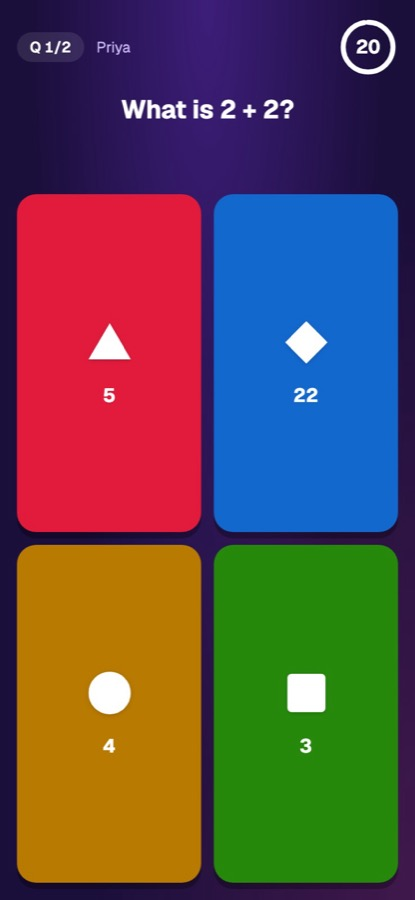
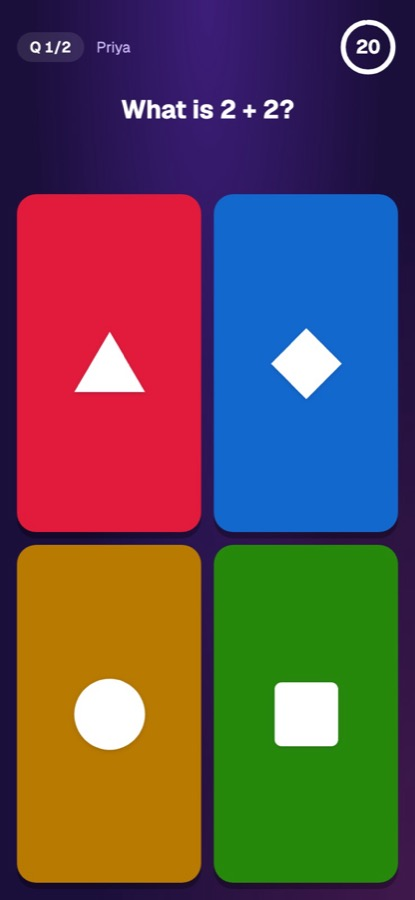
Mirror the Display on players' phones; fix phone overflow and late-joiner promotion (Decision #62)
- Play tiles are shape-only (answer text stays as screen-reader text),
  and all screens share one layout rule: 2 options stacked top/bottom,
  3-4 in a 2x2 grid, so a phone is a spatial mirror of the projector.
- Portrait audit (320/375/390px, realistic + max-length content) fixes:
  Final Results podium overflowed sideways on every phone width; podium
  put the winner on the right when 2nd was tied; result "Correct answer"
  hint overflowed on long words; lobby name was ellipsised.
- Late joiners (spectators) can now request to play from the question
  screen; previously the button was only on a lobby they never see.
- README screenshots refreshed (adds Display reveal, phone play/results).

diff --git a/frontend/src/pages/PlayPage.tsx b/frontend/src/pages/PlayPage.tsx
@@ -79,6 +79,7 @@ export function PlayPage() {
   const [phase, setPhase] = useState<Phase>('connecting')
   const [role, setRole] = useState<'PLAYER' | 'SPECTATOR' | null>(null)
   const [promotionRequested, setPromotionRequested] = useState(false)
+  const [promotionDenied, setPromotionDenied] = useState(false)
   const [question, setQuestion] = useState<QuestionBroadcast | null>(null)
   const [deadline, setDeadline] = useState<number | null>(null)
   const [displayName] = useState(() => localStorage.getItem('pulz:displayName'))
@@ -163,6 +164,7 @@ export function PlayPage() {
     }
     function onPromotionResult(payload: PromotionResult) {
       setPromotionRequested(false)
+      setPromotionDenied(!payload.approved)
       if (payload.approved) setRole('PLAYER')
     }
     function onGameEnded(payload: GameEnded) {
@@ -203,6 +205,7 @@ export function PlayPage() {
 
   function handleRequestPromotion() {
     setPromotionRequested(true)
+    setPromotionDenied(false)
     socket.emit('promotion:request')
   }
 
@@ -238,7 +241,9 @@ export function PlayPage() {
         <ShapeParade />
         <h1 className="text-4xl font-black tracking-tight">You're in!</h1>
         {displayName ? (
-          <p className="max-w-full truncate rounded-full bg-white/10 px-5 py-2 text-xl font-semibold">{displayName}</p>
+          <p className="max-w-full rounded-3xl bg-white/10 px-5 py-2 text-xl font-semibold [overflow-wrap:anywhere]">
+            {displayName}
+          </p>
         ) : null}
         <p className="text-stage-muted">Waiting for the host to start the game...</p>
         {role === 'SPECTATOR' ? (
@@ -293,9 +298,9 @@ export function PlayPage() {
           Rank {result.myRank} of {result.totalPlayers}
         </p>
         {!result.isCorrect && correctOption ? (
-          <p className="flex items-center gap-2 rounded-xl bg-black/20 px-4 py-2 text-base">
+          <p className="flex max-w-full items-center gap-2 rounded-xl bg-black/20 px-4 py-2 text-base">
             <AnswerShape shape={correctOption.shape} className="size-5 shrink-0" />
-            <span>
+            <span className="min-w-0 [overflow-wrap:anywhere]">
               Correct answer: <span className="font-semibold">{correctOption.label}</span>
             </span>
           </p>
@@ -332,7 +337,23 @@ export function PlayPage() {
 
       <div className="flex min-h-14 items-center justify-center px-4 pt-1 pb-4 text-center text-sm" aria-live="polite">
         {role === 'SPECTATOR' ? (
-          <span className="text-stage-muted">Spectating — you can't answer this round.</span>
+          // Joined after the game started (DESIGN.md §2): the host has to let
+          // them in, from the next answer on — no retroactive points
+          // (Decision #13). This is the only screen a late joiner ever sees,
+          // so the request has to live here, not just in the lobby.
+          <span className="flex flex-wrap items-center justify-center gap-x-3 gap-y-2">
+            <span className="text-stage-muted">
+              {promotionDenied ? 'The host said not yet — you can ask again.' : "You joined mid-game, so you're watching."}
+            </span>
+            <Button
+              size="sm"
+              className="bg-white text-stage hover:bg-white/90"
+              onClick={handleRequestPromotion}
+              disabled={promotionRequested}
+            >
+              {promotionRequested ? 'Request sent' : 'Request to play'}
+            </Button>
+          </span>
         ) : answerError && !result ? (
           <span className="rounded-full bg-stage-incorrect px-4 py-1.5 font-medium">{answerError}</span>
         ) : phase === 'locked' ? (
@@ -351,7 +372,7 @@ export function PlayPage() {
         <div className="flex flex-1 flex-col px-4 pb-4 sm:mx-auto sm:w-full sm:max-w-3xl">
           <AnswerGrid
             className="flex-1 auto-rows-fr"
-            stacked
+            shapeOnly
             options={toAnswerOptions(question.options)}
             onSelect={handleSelect}
             selectedOptionId={selectedOptionId}

diff --git a/frontend/src/components/AnswerGrid.tsx b/frontend/src/components/AnswerGrid.tsx
@@ -21,9 +21,10 @@ type AnswerGridProps = {
   reveal?: { correctOptionId: string; tally?: Record<string, number> }
   /** `large` for the projector-facing Display. */
   size?: 'default' | 'large'
-  /** Shape above a centered label — for tall tiles (Play fills the phone
-   * screen with them), where a left-aligned row floats in empty space. */
-  stacked?: boolean
+  /** Big centered shape only; the label becomes screen-reader text. For
+   * the player's phone, where the room reads the answers off the Display
+   * and just needs to hit the matching shape fast (Decision #62). */
+  shapeOnly?: boolean
   className?: string
   /** Extra classes for every tile (e.g. viewport-scaled sizing on the
    * projector), so callers don't have to reach into the grid's DOM. */
@@ -35,6 +36,11 @@ type AnswerGridProps = {
  * Display and Host show it read-only. Tile colors are the fixed Kahoot-style
  * slot palette (answerStyles.ts), independent of the app theme, so label
  * text is always white.
+ *
+ * Layout is decided by option count alone — 2 options stack top/bottom,
+ * 3-4 fill a 2x2 grid in slot order — and is the same on Display, Host and
+ * Play, so a player's phone is a spatial mirror of the projector: the tile
+ * top-left on the big screen is top-left in their hand.
  */
 export function AnswerGrid({
   options,
@@ -43,14 +49,21 @@ export function AnswerGrid({
   selectedOptionId,
   reveal,
   size = 'default',
-  stacked = false,
+  shapeOnly = false,
   className,
   tileClassName: extraTileClassName,
 }: AnswerGridProps) {
   const large = size === 'large'
 
   return (
-    <div className={cn('grid grid-cols-2', large ? 'gap-5' : 'gap-3 sm:gap-4', className)}>
+    <div
+      className={cn(
+        'grid',
+        options.length <= 2 ? 'grid-cols-1' : 'grid-cols-2',
+        large ? 'gap-5' : 'gap-3 sm:gap-4',
+        className,
+      )}
+    >
       {options.map((option) => {
         const isCorrect = reveal?.correctOptionId === option.id
         const isSelected = selectedOptionId === option.id
@@ -60,7 +73,7 @@ export function AnswerGrid({
 
         const tileClassName = cn(
           'relative flex items-center rounded-2xl font-bold text-white',
-          stacked ? 'flex-col justify-center text-center' : 'text-left',
+          shapeOnly ? 'justify-center' : 'text-left',
           'shadow-[0_6px_0_rgb(0_0_0/0.28)] transition-[transform,opacity,filter,box-shadow] duration-200',
           large ? 'min-h-32 gap-5 px-7 text-3xl' : 'min-h-24 gap-3 px-4 text-lg sm:min-h-28 sm:text-xl',
           onSelect &&
@@ -79,14 +92,17 @@ export function AnswerGrid({
           <>
             <AnswerShape
               shape={option.shape}
-              className={cn('shrink-0 drop-shadow-sm', large || stacked ? 'size-12' : 'size-7 sm:size-9')}
+              className={cn(
+                'shrink-0 drop-shadow-sm',
+                shapeOnly ? 'size-20 sm:size-24' : large ? 'size-12' : 'size-7 sm:size-9',
+              )}
             />
-            <span className={cn('min-w-0 [overflow-wrap:anywhere]', !stacked && 'flex-1')}>{option.label}</span>
+            <span className={shapeOnly ? 'sr-only' : 'min-w-0 flex-1 [overflow-wrap:anywhere]'}>{option.label}</span>
             {isCorrect ? (
               <Check
                 aria-hidden="true"
                 strokeWidth={3.5}
-                className={cn(large ? 'size-10' : 'size-7', stacked && 'absolute top-3 right-3')}
+                className={cn(large ? 'size-10' : 'size-7', shapeOnly && 'absolute top-3 right-3')}
               />
             ) : null}
             {count !== null ? (

diff --git a/frontend/src/components/Podium.tsx b/frontend/src/components/Podium.tsx
@@ -8,11 +8,16 @@ type PodiumProps = {
   entries: PodiumEntry[]
 }
 
-const MEDAL_BY_RANK: Record<number, { label: string; className: string }> = {
-  1: { label: '🥇', className: 'order-2 h-32 bg-amber-400/90' },
-  2: { label: '🥈', className: 'order-1 h-24 bg-slate-300/90' },
-  3: { label: '🥉', className: 'order-3 h-16 bg-orange-400/80' },
+const MEDAL_BY_RANK: Record<number, { label: string; blockClassName: string }> = {
+  1: { label: '🥇', blockClassName: 'h-28 bg-amber-400/90' },
+  2: { label: '🥈', blockClassName: 'h-20 bg-slate-300/90' },
+  3: { label: '🥉', blockClassName: 'h-14 bg-orange-400/80' },
 }
+
+// Visual slot by position in the ranked list, not by rank: the leader
+// stands in the middle, the next on the left, the next on the right — so
+// ties (e.g. two players sharing 2nd) still keep the winner centred.
+const SLOT_ORDER = ['order-2', 'order-1', 'order-3']
 
 /**
  * Shared podium component (ARCHITECTURE.md §5, PRD §4.4) — used by the
@@ -20,25 +25,31 @@ const MEDAL_BY_RANK: Record<number, { label: string; className: string }> = {
  * (Decision #7's tie-breaking note), so this renders whatever entries
  * (up to 3 "slots") the caller passes rather than assuming exactly one
  * per rank.
+ *
+ * Name and score sit above each medal block, in the theme's own text
+ * colors, and wrap rather than truncate — this is the only place the top
+ * three are listed (the table below starts at 4th), and a fixed-size block
+ * can't hold a 24-character name on a phone.
  */
 export function Podium({ entries }: PodiumProps) {
+  const ranked = [...entries].sort((a, b) => a.rank - b.rank)
+
   return (
-    <div className="flex items-end justify-center gap-4">
-      {entries.map((entry) => {
-        const medal = MEDAL_BY_RANK[entry.rank] ?? { label: `#${entry.rank}`, className: 'order-4 h-12 bg-muted' }
+    <div className="flex items-end justify-center gap-2 sm:gap-4">
+      {ranked.map((entry, index) => {
+        const medal = MEDAL_BY_RANK[entry.rank] ?? { label: `#${entry.rank}`, blockClassName: 'h-10 bg-muted' }
         return (
           <div
             key={`${entry.rank}-${entry.name}`}
-            className={`flex w-28 flex-col items-center justify-end rounded-t-lg pb-2 text-center shadow-sm ${medal.className}`}
+            className={`flex max-w-32 min-w-0 flex-1 flex-col items-center gap-1 text-center ${SLOT_ORDER[index] ?? 'order-4'}`}
           >
-            <div className="text-2xl">{medal.label}</div>
-            {/* Explicit dark text: these medal blocks are fixed light
-                colors regardless of app theme (like AnswerGrid's option
-                buttons), so text must not inherit the theme-driven
-                foreground color — in dark mode that's near-white and
-                unreadable against amber/slate/orange. */}
-            <div className="mt-1 truncate px-1 font-semibold text-black/80">{entry.name}</div>
-            <div className="text-sm text-black/70">{entry.score} pts</div>
+            <div className="w-full leading-tight font-semibold [overflow-wrap:anywhere]">{entry.name}</div>
+            <div className="text-sm text-muted-foreground">{entry.score} pts</div>
+            <div
+              className={`mt-1 flex w-full justify-center rounded-t-lg pt-2 text-2xl shadow-sm ${medal.blockClassName}`}
+            >
+              {medal.label}
+            </div>
           </div>
         )
       })}

diff --git a/frontend/src/pages/PlayPage.test.tsx b/frontend/src/pages/PlayPage.test.tsx
@@ -112,6 +112,52 @@ describe('PlayPage', () => {
     expect(screen.getByText('4')).toBeInTheDocument() // "Correct answer: 4"
   })
 
+  it('lets a mid-game joiner ask to play, and answer once the host approves', () => {
+    renderPlayPage()
+    // Joined after the game started: resumed straight into the active question as a spectator.
+    serverEmits('join:accepted', {
+      participantId: 'p9',
+      participantToken: 'participant-token',
+      role: 'SPECTATOR',
+      state: { status: 'IN_PROGRESS', question: { ...QUESTION, phase: 'ACTIVE' }, answeredOptionId: null },
+    })
+    expect(screen.getByRole('button', { name: '4' })).toBeDisabled()
+
+    fireEvent.click(screen.getByRole('button', { name: 'Request to play' }))
+    expect(fakeSocket.emit).toHaveBeenCalledWith('promotion:request')
+    expect(screen.getByRole('button', { name: 'Request sent' })).toBeDisabled()
+
+    serverEmits('promotion:result', { approved: true })
+    expect(screen.queryByRole('button', { name: /Request/ })).not.toBeInTheDocument()
+    fireEvent.click(screen.getByRole('button', { name: '4' }))
+    expect(fakeSocket.emit).toHaveBeenCalledWith('answer:submit', { questionId: 'q1', selectedOptionId: 'o2' })
+  })
+
+  it('tells a spectator when the host declines, and lets them ask again', () => {
+    renderPlayPage()
+    serverEmits('join:accepted', {
+      participantId: 'p9',
+      participantToken: 'participant-token',
+      role: 'SPECTATOR',
+      state: { status: 'IN_PROGRESS', question: { ...QUESTION, phase: 'ACTIVE' }, answeredOptionId: null },
+    })
+    fireEvent.click(screen.getByRole('button', { name: 'Request to play' }))
+    serverEmits('promotion:result', { approved: false })
+
+    expect(screen.getByText(/host said not yet/)).toBeInTheDocument()
+    expect(screen.getByRole('button', { name: 'Request to play' })).toBeEnabled()
+  })
+
+  it('shows answer tiles as shapes only, keeping each option as its accessible name', () => {
+    renderPlayPage()
+    serverEmits('join:accepted', { participantId: 'p1', participantToken: 'participant-token', role: 'PLAYER' })
+    serverEmits('question:broadcast', QUESTION)
+
+    const tile = screen.getByRole('button', { name: '4' })
+    expect(tile.querySelector('svg')).not.toBeNull()
+    expect(screen.getByText('4')).toHaveClass('sr-only')
+  })
+
   it('shows Not quite. (not Time\'s up) for a wrong answer', () => {
     renderPlayPage()
     serverEmits('join:accepted', { participantId: 'p1', participantToken: 'participant-token', role: 'PLAYER' })

diff --git a/frontend/src/components/Podium.test.tsx b/frontend/src/components/Podium.test.tsx
@@ -1,0 +1,34 @@
+import { render, screen } from '@testing-library/react'
+import { describe, expect, it } from 'vitest'
+import { Podium } from './Podium'
+
+function slotOf(name: string): string | undefined {
+  // Each entry's column carries its visual slot as a flex `order-*` class.
+  return screen.getByText(name).parentElement?.className.match(/order-\d/)?.[0]
+}
+
+describe('Podium', () => {
+  it('keeps the winner in the middle even when 2nd place is tied', () => {
+    render(
+      <Podium
+        entries={[
+          { rank: 2, name: 'Bea', score: 10 },
+          { rank: 1, name: 'Ava', score: 50 },
+          { rank: 2, name: 'Cal', score: 10 },
+        ]}
+      />,
+    )
+
+    expect(slotOf('Ava')).toBe('order-2') // centre
+    expect(slotOf('Bea')).toBe('order-1') // left
+    expect(slotOf('Cal')).toBe('order-3') // right
+  })
+
+  it('shows full names and scores, never truncated', () => {
+    render(<Podium entries={[{ rank: 1, name: 'Maximilian-Alexandrovich', score: 950 }]} />)
+
+    const name = screen.getByText('Maximilian-Alexandrovich')
+    expect(name.className).not.toMatch(/truncate/)
+    expect(screen.getByText('950 pts')).toBeInTheDocument()
+  })
+})

diff --git a/docs/DECISIONS.md b/docs/DECISIONS.md
@@ -71,6 +71,7 @@ tell a "settled trade-off" apart from an "open question" (see
 | 59 | E2E flakiness root-caused and fixed (2026-09-27). **Cause:** the socket connection limiter (ARCHITECTURE.md §11 row 3, 20 new connections/60s) was keyed on **raw IP**, and every Playwright browser context shares one IP (the Docker gateway) — the suite deterministically hit connection #21 within a minute, and the rejected socket (`connection:error` + forced disconnect, which the client doesn't surface) left whichever page was connecting stuck forever. Proven with temporary server logging: runs passed exactly until the 21st connection, which logged as rate-limited. The answer-vs-lock race theory from the handoff was **refuted** (every logged answer reached the server ~500ms before lock; `answer:ack` also already existed per DESIGN.md §3). **Fixes:** (1) the connect *and* join limiters now key on `IP + client id` (`compositeRateKey`, `backend/src/domain/rateLimiter.ts`) — the client sends a random per-device `clientId` in the Socket.IO handshake `auth` (`frontend/src/lib/socket.ts`); a missing/malformed id falls back to the bare IP. This is what §11 always specified; raw-IP also meant a real classroom behind one NAT'd IP would be cut off after ~10 players/minute. (2) **Production bug found along the way:** `useGameSocket` only authenticated on a `connect` event, but `JoinPage` hands `PlayPage` an *already-connected* socket, so in a prod build (no StrictMode) no `join:request` was ever sent and players could never answer — dev only worked because StrictMode's effect double-run disconnected and reconnected the socket. The hook now runs `onConnect` immediately if already connected (once per `socket.id`) and defers its unmount disconnect so StrictMode no longer churns a new server connection. (3) The disconnect handler no longer marks a participant disconnected if they've already rebound to a newer socket (latent race, not observed but real). (4) `PlayPage` now surfaces `answer:ack`/`answer:error` ("Answer received — waiting for the host..."), and the E2E specs wait for that instead of fixed `waitForTimeout(500)` sleeps. Verified: 12 consecutive full-suite runs green (36/36), plus the original reproduction (`--repeat-each=9`, previously failing from run 6) 9/9, plus `full-game-flow`/`reconnect` against a production build. | Decision #21/ARCHITECTURE.md §11 asked for composite keys from the start; the raw-IP shortcut was never an intentional trade-off. Fixing the test by raising the limit in dev would have hidden a real classroom-scale product bug; waiting on the server's ack is deterministic where a sleep only made the failure rarer. The follow-ups this left open (client hanging on `connection:error`, no integration test for the stale-disconnect guard, E2E runs tripping the register limit) are closed by Decision #60. | `backend/src/domain/rateLimiter.ts`, `backend/src/sockets/index.ts`, `backend/src/sockets/session.socket.ts`, `frontend/src/lib/socket.ts`, `frontend/src/hooks/useGameSocket.ts`, `frontend/src/pages/PlayPage.tsx`, `frontend/e2e/` |
 | 60 | Decision #59's follow-ups closed (2026-09-27). (1) **Refused connections are surfaced, not silent:** `useGameSocket` now returns `{ socket, connectionError }`, set from the server's `connection:error` or any `io server disconnect` (which Socket.IO never auto-reconnects from); Host/Display/Play render the message plus "reload to try again" instead of an indefinite "Connecting…", and JoinPage's submit flow handles the same events so the form doesn't stay stuck submitting. Verified against the live server that a client receives `connect` → `connection:error` → `disconnect(io server disconnect)` in that order at the cap. No automatic client retry — a reload is enough for MVP and avoids hammering a limiter that just refused us. (2) **Real-Socket.IO backend integration test** (`backend/src/sockets/session.socket.test.ts`, `socket.io-client` added as a backend devDependency) for Decision #59's stale-disconnect guard: rejoin on socket B, then A's late disconnect must leave the participant connected, and B must still get its `answer:result` at lock; confirmed to fail with the guard removed. (3) **`POST /auth/register`'s limit is env-overridable** (`REGISTER_RATE_LIMIT_PER_HOUR`, default still 10/hour per Decision #38) and raised to 1000 only in the dev-only `docker-compose.yml`, so repeated E2E runs (3 registrations each) no longer need `docker compose restart backend`. | (3) keeps production behaviour identical while removing a purely local-dev friction; an E2E-only shared Creator token was considered but would have stopped exercising the real anonymous registration path the Creator flow depends on. Verified: 6 back-to-back full E2E runs with no restarts (18 registrations) green, zero 429s. | `frontend/src/hooks/useGameSocket.ts`, `frontend/src/components/ConnectionErrorMessage.tsx`, `frontend/src/pages/{Host,Display,Play,Join}Page.tsx`, `backend/src/sockets/session.socket.test.ts`, `backend/src/config/env.ts`, `backend/src/routes/auth.route.ts`, `docker-compose.yml`, `backend/.env.example` |
 | 61 | Gameplay screens (Host `/host`, Display `/display`, Play `/play`) redesigned in a **"bold game-show"** direction (owner's choice over a calmer, Creator-flow-consistent look), on the existing Tailwind + shadcn stack with no new dependencies. **Shared pieces:** a fixed, theme-independent violet game *stage* (`--stage*` tokens in `index.css`, `GameStage`) for Play and Display; `AnswerGrid` now actually renders each slot's shape (`AnswerShape` — previously defined but never drawn) and supports selected / reveal-with-tally / stacked / per-tile sizing states; a `Countdown` ring (the server already sent `serverStartTime` + `timeLimitSeconds`, but no screen showed a timer) that becomes a solid red ticking disc for the final 5s. **Theme:** Decision #55 holds — no toggle on gameplay screens; Display and Play are always the stage, Host stays theme-aware and now *applies* the saved/system theme via `useTheme()`. **Accessibility:** the gold answer tile darkened `#d89e00` → `#b87a00` (white label 2.4:1 → 3.6:1, passing WCAG large-text); correct-green is `#15803d` (5.0:1 under the result screen's small text); receded tiles darken + desaturate rather than fade, since faded tiles went pastel and illegible on the light-theme Host. **Behaviour changes (display-only, no protocol change beyond one payload):** Display now shows the reveal (correct answer, per-option tallies, "N of M got it right") *together with* a top-5 leaderboard instead of jumping straight to a full-screen leaderboard — `lockQuestion` emits reveal + leaderboard in one step (Decision #33), so the room previously never saw which answer was right; its badge says "Time's up" only when the timer actually expired, "Answers locked" when the host locked early. Display's lobby shows the join code + join URL + live player chips, for which `display:auth_ok` now also carries `joinCode` and the current `participants` (the join code is meant to be public, and Display is the screen that shows it). Play's result screen distinguishes Correct / Not quite / Time's up and shows the correct answer on a miss. Host keeps the previous standings visible while the next question runs (previously cleared on every broadcast). **Bug fixed along the way:** pasting a host token on the Host page's fallback screen never sent `host:auth` (the socket was already connected, so no `connect` event fired) — the Connect handler now authenticates directly. | The gameplay screens were the least-polished part of the app (plain lists, no timer, no shapes) despite being what players and the room actually look at. Countdown deadlines anchor on the local receive time for live broadcasts to sidestep client/server clock skew (`lib/questionTimer.ts`); purely cosmetic, scoring and locking stay server-authoritative. All copy/roles the unit and E2E tests rely on were preserved. Built by three parallel agents (Host, Display, Play) on a shared foundation, with a Playwright screenshot harness driving a real 3-player game for visual review. Verified: 28 frontend + 68 backend unit tests, 5 consecutive full E2E runs green. | `frontend/src/components/{AnswerGrid,AnswerShape,Countdown,GameStage}.tsx`, `frontend/src/components/answerStyles.ts`, `frontend/src/lib/questionTimer.ts`, `frontend/src/index.css`, `frontend/src/pages/{Host,Display,Play}Page.tsx`, `backend/src/sockets/session.socket.ts` |
+| 62 | Player phones show **shape-only answer tiles laid out as a spatial mirror of the Display** (owner's request): the answer text lives only on the Display (still in each tile as screen-reader text, so it stays the accessible name), and every screen uses the same count-based layout — 2 options stacked top/bottom, 3-4 in a 2x2 grid in slot order — so the tile top-left on the projector is top-left in the player's hand. Found by a portrait-phone audit (320/375/390px × realistic and max-length content: 500-char question, 200-char options, 24-char names), and fixed: the **Final Results podium overflowed sideways on every phone width** even with ordinary names (fixed-width blocks + names inside fixed-height medal blocks) — names/scores now sit above flexible blocks and wrap; the **podium put the winner on the right when 2nd place was tied** (slots were by rank, not by position) — the leader is now always centred; the Play result screen's "Correct answer" hint overflowed on long unbroken words; the lobby cut the player's own name with an ellipsis. Also fixed: a late joiner (spectator) **could never request to play** — the button only rendered on the lobby screen, which someone joining mid-game never sees; it now sits on the question screen, with a "host said not yet" message on denial. | Players read the question and answers off the shared screen and race to tap; re-reading long answer text on a phone costs time and space, and matching positions removes a mapping step. Mirroring requires one layout rule for all screens rather than per-device layouts. The audit's only remaining flag is deliberate: the player's name in the in-question header is ellipsised at 320px (it shares a line with the question number and timer; the full name shows in the lobby). Verified: 33 frontend unit tests, 3 consecutive full E2E runs, portrait audit 48/54 screens clean with the 6 remaining being that header ellipsis. | `frontend/src/components/{AnswerGrid,Podium}.tsx`, `frontend/src/components/Podium.test.tsx`, `frontend/src/pages/PlayPage.tsx` |
 
 ## How to add to this log
 

diff --git a/README.md b/README.md
@@ -79,14 +79,14 @@ again.
 | --- | --- |
 | ![Display lobby with the join code](docs/screenshots/display-lobby.jpg) | ![Display showing a live question](docs/screenshots/display.jpg) |
 
-| Play — question | Play — result |
+| Display — reveal + leaderboard | Display — podium |
 | --- | --- |
-| ![Player answering a question](docs/screenshots/play.jpg) | ![Player's correct-answer result screen](docs/screenshots/play-result.jpg) |
+| ![Display revealing the correct answer beside the leaderboard](docs/screenshots/display-reveal.jpg) | ![Display end-of-game podium](docs/screenshots/display-podium.jpg) |
 
-| Display — podium |
-| --- |
-| ![Display end-of-game podium](docs/screenshots/display-podium.jpg) |
+| Play (phone) — question | Play (phone) — result |
+| --- | --- |
+| <img src="docs/screenshots/play.jpg" alt="Player's phone: shape-only answer tiles mirroring the Display layout" width="260"> | <img src="docs/screenshots/play-result.jpg" alt="Player's correct-answer result screen" width="260"> |
 
-| Results |
+| Results (phone) |
 | --- |
-| ![Final results podium](docs/screenshots/results.jpg) |
+| <img src="docs/screenshots/results.jpg" alt="Final results podium on a phone" width="260"> |

diff --git a/CLAUDE.md b/CLAUDE.md
@@ -109,7 +109,7 @@ Natural next steps, roughly in order:
    `docs/ARCHITECTURE.md` §5.~~ Done, all seven feature views (Creator
    flows, Host, Display, Join/Play, Results) are implemented, and the
    Creator flow now starts a session and links to Host/Display — see
-   `docs/FRONTEND_PLAN.md` for current status and Decisions #39-61. The
+   `docs/FRONTEND_PLAN.md` for current status and Decisions #39-62. The
    full journey has been manually verified end-to-end against a live
    backend (`docker compose up`, Decision #50) and is covered by three
    automated Playwright E2E tests (Decisions #52-53, #58). The suite's

diff --git a/docs/FRONTEND_PLAN.md b/docs/FRONTEND_PLAN.md
@@ -200,6 +200,10 @@ items here as they're discovered — don't let this list go stale.
       Correct / Not quite / Time's up results. Decision #55's theme rules
       still hold (no toggle during a live game; Display/Play always on the
       stage, Host theme-aware).
+- [x] Phones mirror the Display (Decision #62): shape-only answer tiles in
+      the same layout as the projector; portrait-phone overflow audit
+      (Results podium, result hint, lobby name fixed); late joiners can
+      now request to play from the question screen.
 
 ## Status
 
